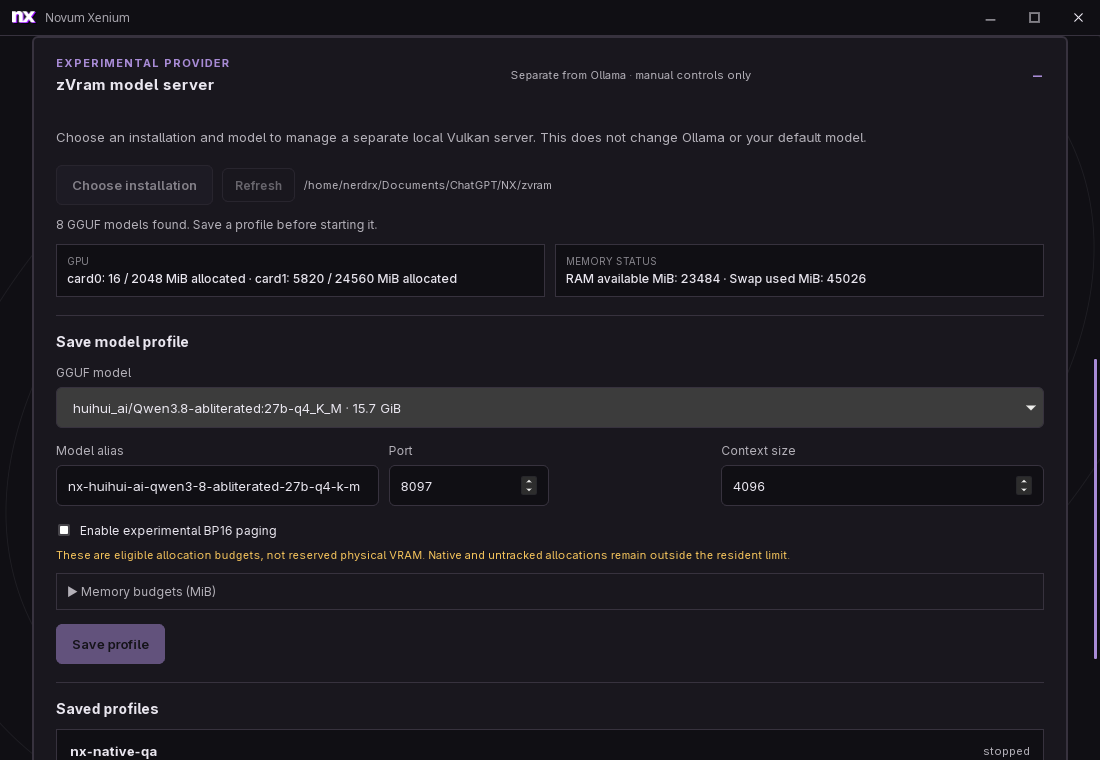
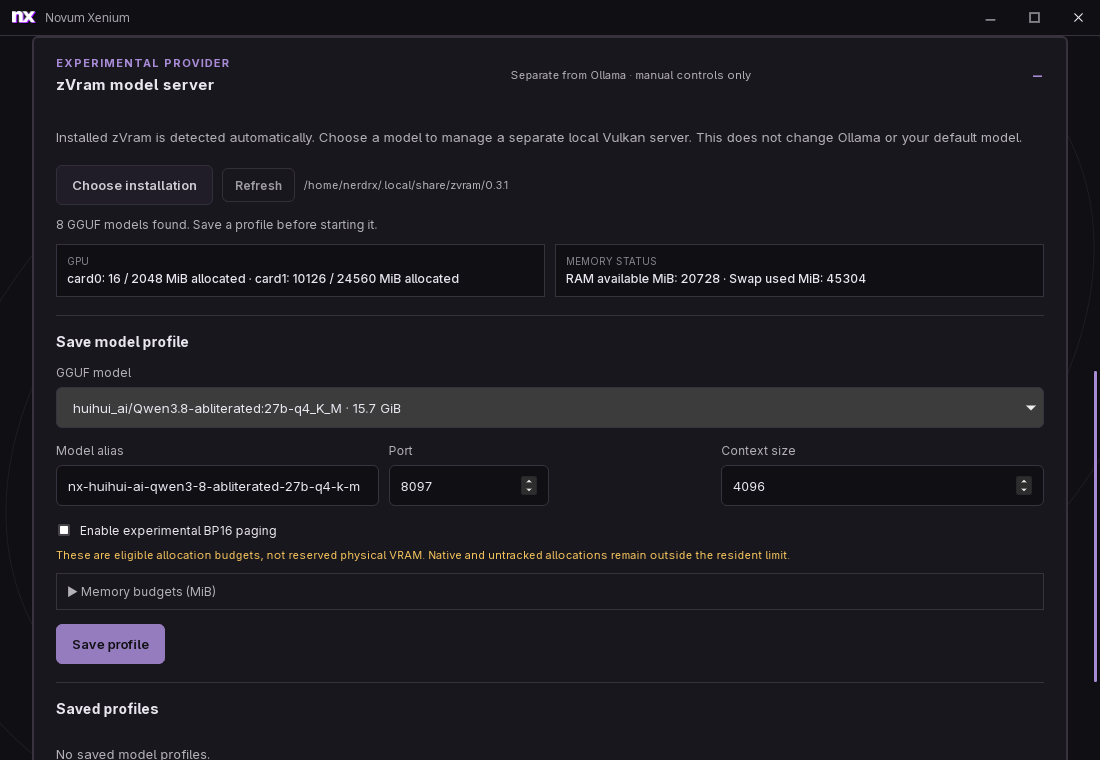
feat(desktop): detect installed zVram automatically

diff --git a/desktop/src/index.html b/desktop/src/index.html
@@ -102,14 +102,14 @@
               <span><span class="eyebrow">Experimental provider</span><strong>zVram model server</strong></span>
               <span class="zvram-summary-note">Separate from Ollama · manual controls only</span>
             </summary>
-            <p class="panel-description">Choose an installation and model to manage a separate local Vulkan server. This does not change Ollama or your default model.</p>
+            <p class="panel-description">Installed zVram is detected automatically. Choose a model to manage a separate local Vulkan server. This does not change Ollama or your default model.</p>
             <div class="zvram-toolbar">
               <button class="button button-secondary" type="button" id="zvram-choose">Choose installation</button>
               <button class="button button-quiet button-small" type="button" id="zvram-refresh">Refresh</button>
               <span id="zvram-installation" class="zvram-installation">No installation selected.</span>
             </div>
             <p id="zvram-error" class="zvram-error" role="alert" hidden></p>
-            <p id="zvram-status" class="zvram-status" role="status" aria-live="polite">Choose an installation or refresh to inspect zVram.</p>
+            <p id="zvram-status" class="zvram-status" role="status" aria-live="polite">Open this panel to find zVram and inspect local models.</p>
             <div class="zvram-hardware" id="zvram-hardware" hidden>
               <div><span>GPU</span><strong id="zvram-gpu">—</strong></div>
               <div><span>Memory status</span><strong id="zvram-memory">—</strong></div>

diff --git a/desktop/src/zvram.js b/desktop/src/zvram.js
@@ -225,6 +225,9 @@ elements.choose.addEventListener('click', async () => {
   } catch (_) { /* Error is already visible. */ }
 });
 elements.refresh.addEventListener('click', () => { refreshStatus().catch(() => {}); });
+$('#zvram-panel').addEventListener('toggle', () => {
+  if ($('#zvram-panel').open && invoke && !busy) refreshStatus().catch(() => {});
+});
 
 elements.form.addEventListener('submit', async event => {
   event.preventDefault();

diff --git a/desktop/src-tauri/src/zvram.rs b/desktop/src-tauri/src/zvram.rs
@@ -90,6 +90,67 @@ fn validate_installation(path: &Path) -> Result<PathBuf, String> {
     Ok(checkout)
 }
 
+fn installation_for_candidate(candidate: &Path) -> Option<PathBuf> {
+    let resolved = fs::canonicalize(candidate).ok()?;
+    let root = if resolved.is_dir() {
+        resolved
+    } else {
+        resolved.parent()?.to_path_buf()
+    };
+    validate_installation(&root).ok()
+}
+
+fn find_installation(candidates: impl IntoIterator<Item = PathBuf>) -> Option<PathBuf> {
+    candidates
+        .into_iter()
+        .find_map(|candidate| installation_for_candidate(&candidate))
+}
+
+fn detect_installation(backend_checkout: Option<&Path>) -> Option<PathBuf> {
+    let mut candidates = std::env::var_os("PATH")
+        .map(|path| {
+            std::env::split_paths(&path)
+                .map(|directory| directory.join("zvram"))
+                .collect::<Vec<_>>()
+        })
+        .unwrap_or_default();
+    if let Some(home) = std::env::var_os("HOME") {
+        candidates.push(PathBuf::from(home).join(".local/bin/zvram"));
+    }
+    candidates.extend([
+        PathBuf::from("/usr/local/bin/zvram"),
+        PathBuf::from("/usr/bin/zvram"),
+    ]);
+    if let Some(backend_checkout) = backend_checkout {
+        if let Some(parent) = backend_checkout.parent() {
+            candidates.extend([parent.join("zvram"), parent.join("zVram")]);
+        }
+    }
+    find_installation(candidates)
+}
+
+fn read_or_detect_installation(
+    config_path: &Path,
+    discover: impl FnOnce() -> Option<PathBuf>,
+) -> Result<Option<PathBuf>, String> {
+    match read_installation(config_path) {
+        Ok(Some(saved)) => return Ok(Some(saved)),
+        Ok(None) => {}
+        Err(error) => {
+            if let Some(detected) = discover() {
+                save_installation(config_path, &detected)?;
+                return Ok(Some(detected));
+            }
+            return Err(error);
+        }
+    }
+    if let Some(detected) = discover() {
+        save_installation(config_path, &detected)?;
+        return Ok(Some(detected));
+    }
+    Ok(None)
+}
+
 fn save_installation(path: &Path, checkout: &Path) -> Result<String, String> {
     let parent = path
         .parent()
@@ -213,12 +274,6 @@ pub(super) async fn zvram_status(
     require_main(&window)?;
     ensure_not_quitting(&state.quit_pending)?;
     platform_supported()?;
-    let config_path = zvram_config_path(&app)?;
-    let Some(installation) = read_installation(&config_path)? else {
-        let mut result = unavailable_status("Choose a zVram installation to begin.");
-        result["installation"] = Value::String(String::new());
-        return Ok(result);
-    };
     let app = app.clone();
     let lock = state.zvram_operation.clone();
     let quit_pending = state.quit_pending.clone();
@@ -227,6 +282,18 @@ pub(super) async fn zvram_status(
             .lock()
             .map_err(|_| "zVram operation lock is unavailable.")?;
         ensure_not_quitting(&quit_pending)?;
+        let install_path = zvram_config_path(&app)?;
+        let backend_path = config_path(&app)?;
+        let backend = load_config_at(&backend_path)?;
+        let backend_checkout = backend.as_ref().map(|config| Path::new(&config.checkout));
+        let Some(installation) =
+            read_or_detect_installation(&install_path, || detect_installation(backend_checkout))?
+        else {
+            let mut result =
+                unavailable_status("zVram was not detected. Choose an installation to begin.");
+            result["installation"] = Value::String(String::new());
+            return Ok(result);
+        };
         let request = ZvramRequest::status();
         run_bridge(&app, &installation, &request)
     })
@@ -311,6 +378,13 @@ impl ZvramRequest {
 mod tests {
     use super::*;
 
+    fn installation_fixture(path: &Path) {
+        fs::create_dir_all(path).unwrap();
+        for name in ["zvram_manager.py", "zvram_model.py", "zvram"] {
+            fs::write(path.join(name), "test").unwrap();
+        }
+    }
+
     #[test]
     fn request_is_typed_and_uses_the_python_bridge_field_names() {
         let request: ZvramRequest = serde_json::from_value(json!({
@@ -342,12 +416,54 @@ mod tests {
     #[test]
     fn installation_requires_manager_model_helper_and_wrapper() {
         let temp = tempfile::tempdir().unwrap();
-        for name in ["zvram_manager.py", "zvram_model.py", "zvram"] {
-            fs::write(temp.path().join(name), "test").unwrap();
-        }
+        installation_fixture(temp.path());
         assert_eq!(validate_installation(temp.path()).unwrap(), temp.path());
         fs::remove_file(temp.path().join("zvram_model.py")).unwrap();
         assert!(validate_installation(temp.path()).is_err());
+    }
+
+    #[cfg(unix)]
+    #[test]
+    fn discovery_resolves_path_launcher_symlinks_and_skips_incomplete_installations() {
+        use std::os::unix::fs::symlink;
+
+        let temp = tempfile::tempdir().unwrap();
+        let installation = temp.path().join("share/zvram/0.3.0");
+        installation_fixture(&installation);
+        let bin = temp.path().join("bin");
+        fs::create_dir_all(&bin).unwrap();
+        let launcher = bin.join("zvram");
+        symlink(installation.join("zvram"), &launcher).unwrap();
+        let incomplete = temp.path().join("incomplete");
+        fs::create_dir_all(&incomplete).unwrap();
+        fs::write(incomplete.join("zvram"), "wrapper only").unwrap();
+
+        assert_eq!(
+            find_installation([incomplete.join("zvram"), launcher]),
+            Some(fs::canonicalize(installation).unwrap())
+        );
+        assert_eq!(find_installation([incomplete.join("zvram")]), None);
+    }
+
+    #[test]
+    fn valid_manual_installation_wins_without_running_discovery() {
+        let temp = tempfile::tempdir().unwrap();
+        let manual = temp.path().join("manual");
+        let detected = temp.path().join("detected");
+        installation_fixture(&manual);
+        installation_fixture(&detected);
+        let config = temp.path().join("config/zvram.json");
+        save_installation(&config, &manual).unwrap();
+        let mut discovery_called = false;
+
+        let selected = read_or_detect_installation(&config, || {
+            discovery_called = true;
+            Some(detected)
+        })
+        .unwrap();
+
+        assert_eq!(selected, Some(fs::canonicalize(manual).unwrap()));
+        assert!(!discovery_called);
     }
 
     #[test]

diff --git a/docs/desktop.md b/docs/desktop.md
@@ -103,8 +103,10 @@ Notifications use a small native route restricted to the configured local backen
 
 ## zVram model providers (Linux)
 
-Open **zVram model server** in the backend manager and choose your trusted
-[zVram checkout](https://github.com/nerdrx/zVram). It needs the model bridge and
+Open **zVram model server** in the backend manager. It finds installed zVram
+through PATH or the NX Hub launcher in `~/.local/bin`, and remembers the location.
+A valid saved selection takes priority. If nothing is found, use **Choose installation**
+to select your trusted [zVram checkout](https://github.com/nerdrx/zVram). It needs the model bridge and
 manager from the `feat/xenium-vram-manager` branch, Python 3, and a built Vulkan
 `llama-server`. Novum does not download weights or build zVram automatically.
 
